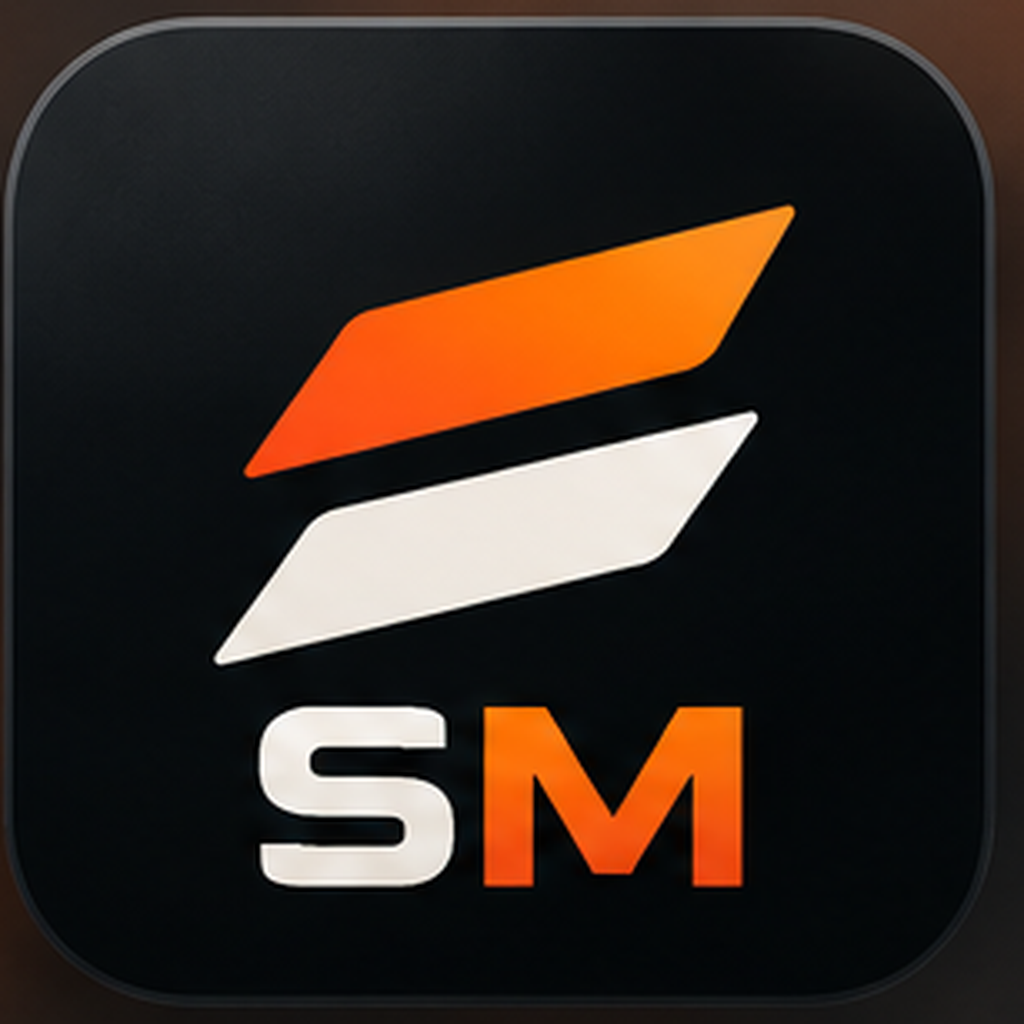
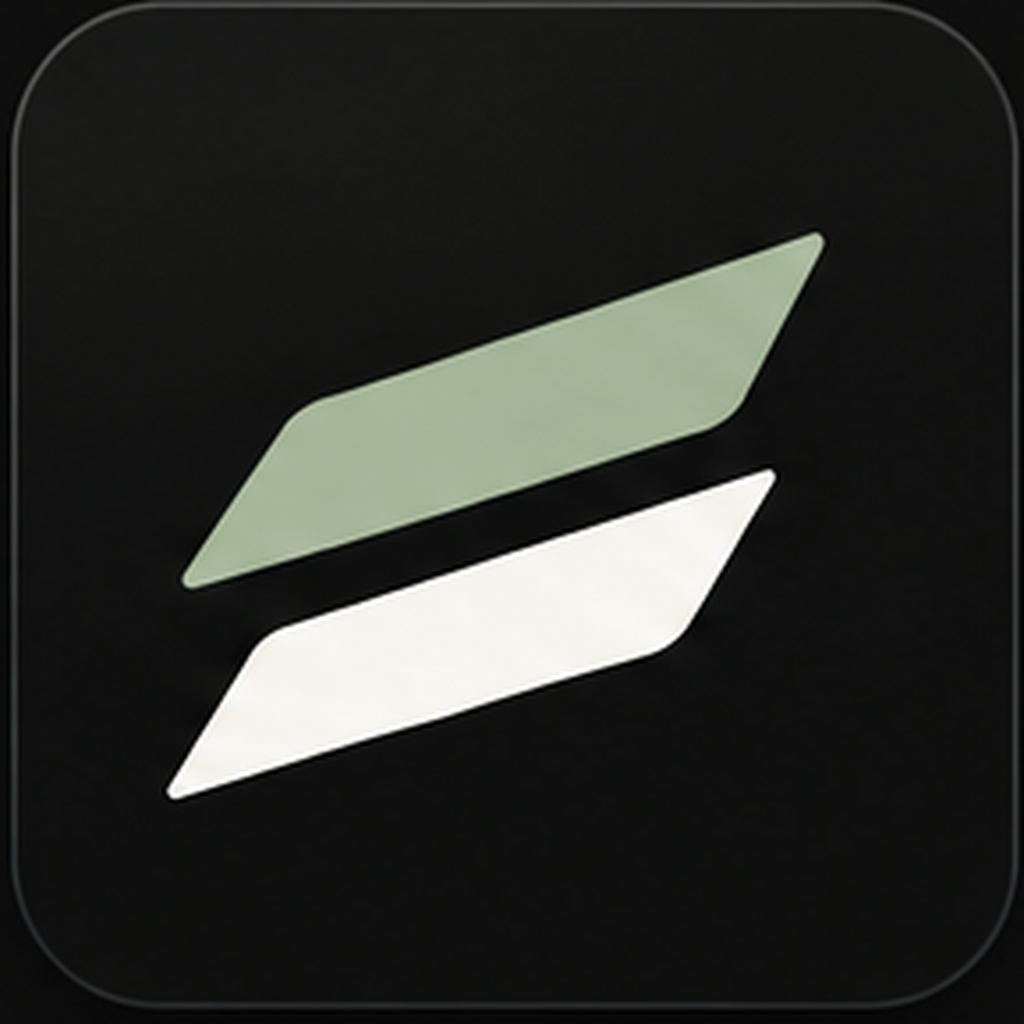
Add files via upload

diff --git a/index.html b/index.html
@@ -4,7 +4,7 @@
 <meta charset="UTF-8">
 <meta name="viewport" content="width=device-width,initial-scale=1.0,viewport-fit=cover">
 <meta name="theme-color" content="#111111">
-<meta name="dayslate-build" content="2026.09.18-slatemachine-user-reference-v11">
+<meta name="dayslate-build" content="2026.09.18-slatemachine-sage-v13">
 <meta name="application-name" content="SlateMachine">
 <meta name="apple-mobile-web-app-title" content="SlateMachine">
 <meta name="apple-mobile-web-app-capable" content="yes">
@@ -608,6 +608,26 @@ body.dtr-day-off .time-grid,body.dtr-day-off .no-lunch-row,body.dtr-day-off #hou
   .signed-in-brand{height:48px!important}
 }
 
+
+/* v12 — force exact SlateMachine artwork; suppress legacy DaySlate text */
+.dayslate-login-logo .dayslate-mark,.dayslate-login-logo .dayslate-wordmark{display:none!important}
+.dayslate-login-logo{
+  width:100%!important;max-width:430px!important;height:auto!important;
+  aspect-ratio:750/460!important;
+  background:url("slatemachine-primary-logo.png") center/contain no-repeat!important;
+  margin:0 auto 18px!important;
+}
+.signed-in-brand .ds-mini-mark,.signed-in-brand>span{display:none!important}
+.signed-in-brand{
+  width:100%!important;height:58px!important;
+  background:url("slatemachine-logo.png") center/contain no-repeat!important;
+  margin:2px 0 18px!important;
+}
+@media(max-width:600px){
+  .dayslate-login-logo{max-width:360px!important}
+  .signed-in-brand{height:46px!important}
+}
+
 </style>
 </head>
 <body>
@@ -615,7 +635,7 @@ body.dtr-day-off .time-grid,body.dtr-day-off .no-lunch-row,body.dtr-day-off #hou
 <div id="loginScreen"><div id="inviteLoginBanner" class="invite-banner hidden"></div>
 <div class="dayslate-login-logo" aria-label="SlateMachine">
   <div class="dayslate-mark" aria-hidden="true"><span></span><span></span></div>
-  <div class="dayslate-wordmark">DaySlate</div>
+  <div class="dayslate-wordmark">SlateMachine</div>
 </div>
 <h1>Age of Attraction</h1><h2>Season 2 · Sound Department</h2>
 <label>Email</label><input type="email" id="email" autocomplete="email">
@@ -623,7 +643,7 @@ body.dtr-day-off .time-grid,body.dtr-day-off .no-lunch-row,body.dtr-day-off #hou
 <button id="loginButton" onclick="signIn()">Log In</button><button class="secondary" onclick="signUp()">Create Account</button><div id="loginMessage" class="message"></div>
 </div>
 <div id="setupScreen" class="hidden">
-<div class="signed-in-brand" aria-label="SlateMachine"><span class="ds-mini-mark" aria-hidden="true"></span><span>DaySlate</span></div>
+<div class="signed-in-brand" aria-label="SlateMachine"><span class="ds-mini-mark" aria-hidden="true"></span><span>SlateMachine</span></div>
 <div id="inviteSetupBanner" class="invite-banner hidden"></div>
 <div class="setup-header"><h1 id="setupTitle">Crew Setup</h1><div class="setup-header-actions"><button id="crewInfoBack" class="secondary hidden" onclick="cancelCrewInfoEdit()">Back</button><button class="secondary" onclick="signOut()">Log Out</button></div></div><div class="subtitle" id="setupSubtitle">Enter your production and payroll information.</div><nav class="dtr-compact-nav app-persistent-nav" aria-label="App navigation">
 <button data-nav="dtr" onclick="showDTR()">DTR</button>
@@ -656,7 +676,7 @@ body.dtr-day-off .time-grid,body.dtr-day-off .no-lunch-row,body.dtr-day-off #hou
 </div>
 </div>
 <div id="dtrScreen" class="hidden">
-<div class="signed-in-brand" aria-label="SlateMachine"><span class="ds-mini-mark" aria-hidden="true"></span><span>DaySlate</span></div>
+<div class="signed-in-brand" aria-label="SlateMachine"><span class="ds-mini-mark" aria-hidden="true"></span><span>SlateMachine</span></div>
 
 <div class="dtr-header">
   <div>
@@ -742,7 +762,7 @@ body.dtr-day-off .time-grid,body.dtr-day-off .no-lunch-row,body.dtr-day-off #hou
 
 </div>
 <div id="timesheetScreen" class="hidden">
-<div class="signed-in-brand" aria-label="SlateMachine"><span class="ds-mini-mark" aria-hidden="true"></span><span>DaySlate</span></div>
+<div class="signed-in-brand" aria-label="SlateMachine"><span class="ds-mini-mark" aria-hidden="true"></span><span>SlateMachine</span></div>
 
 <div class="timesheet-header">
   <div><h1>Timesheet</h1><div class="subtitle" id="timesheetCrewName"></div></div>
@@ -803,7 +823,7 @@ body.dtr-day-off .time-grid,body.dtr-day-off .no-lunch-row,body.dtr-day-off #hou
 </div>
 
 <div id="departmentScreen" class="hidden">
-<div class="signed-in-brand" aria-label="SlateMachine"><span class="ds-mini-mark" aria-hidden="true"></span><span>DaySlate</span></div>
+<div class="signed-in-brand" aria-label="SlateMachine"><span class="ds-mini-mark" aria-hidden="true"></span><span>SlateMachine</span></div>
 
   <div class="department-header">
     <div>
@@ -887,7 +907,7 @@ body.dtr-day-off .time-grid,body.dtr-day-off .no-lunch-row,body.dtr-day-off #hou
 <script>
 
 // DaySlate update checker — prevents Safari/Home Screen from staying on stale index.html.
-const DAYSLATE_BUILD="2026.09.18-slatemachine-user-reference-v11";
+const DAYSLATE_BUILD="2026.09.18-slatemachine-sage-v13";
 async function checkForAppUpdate(){
   try{
     const base=new URL("index.html",location.href);
